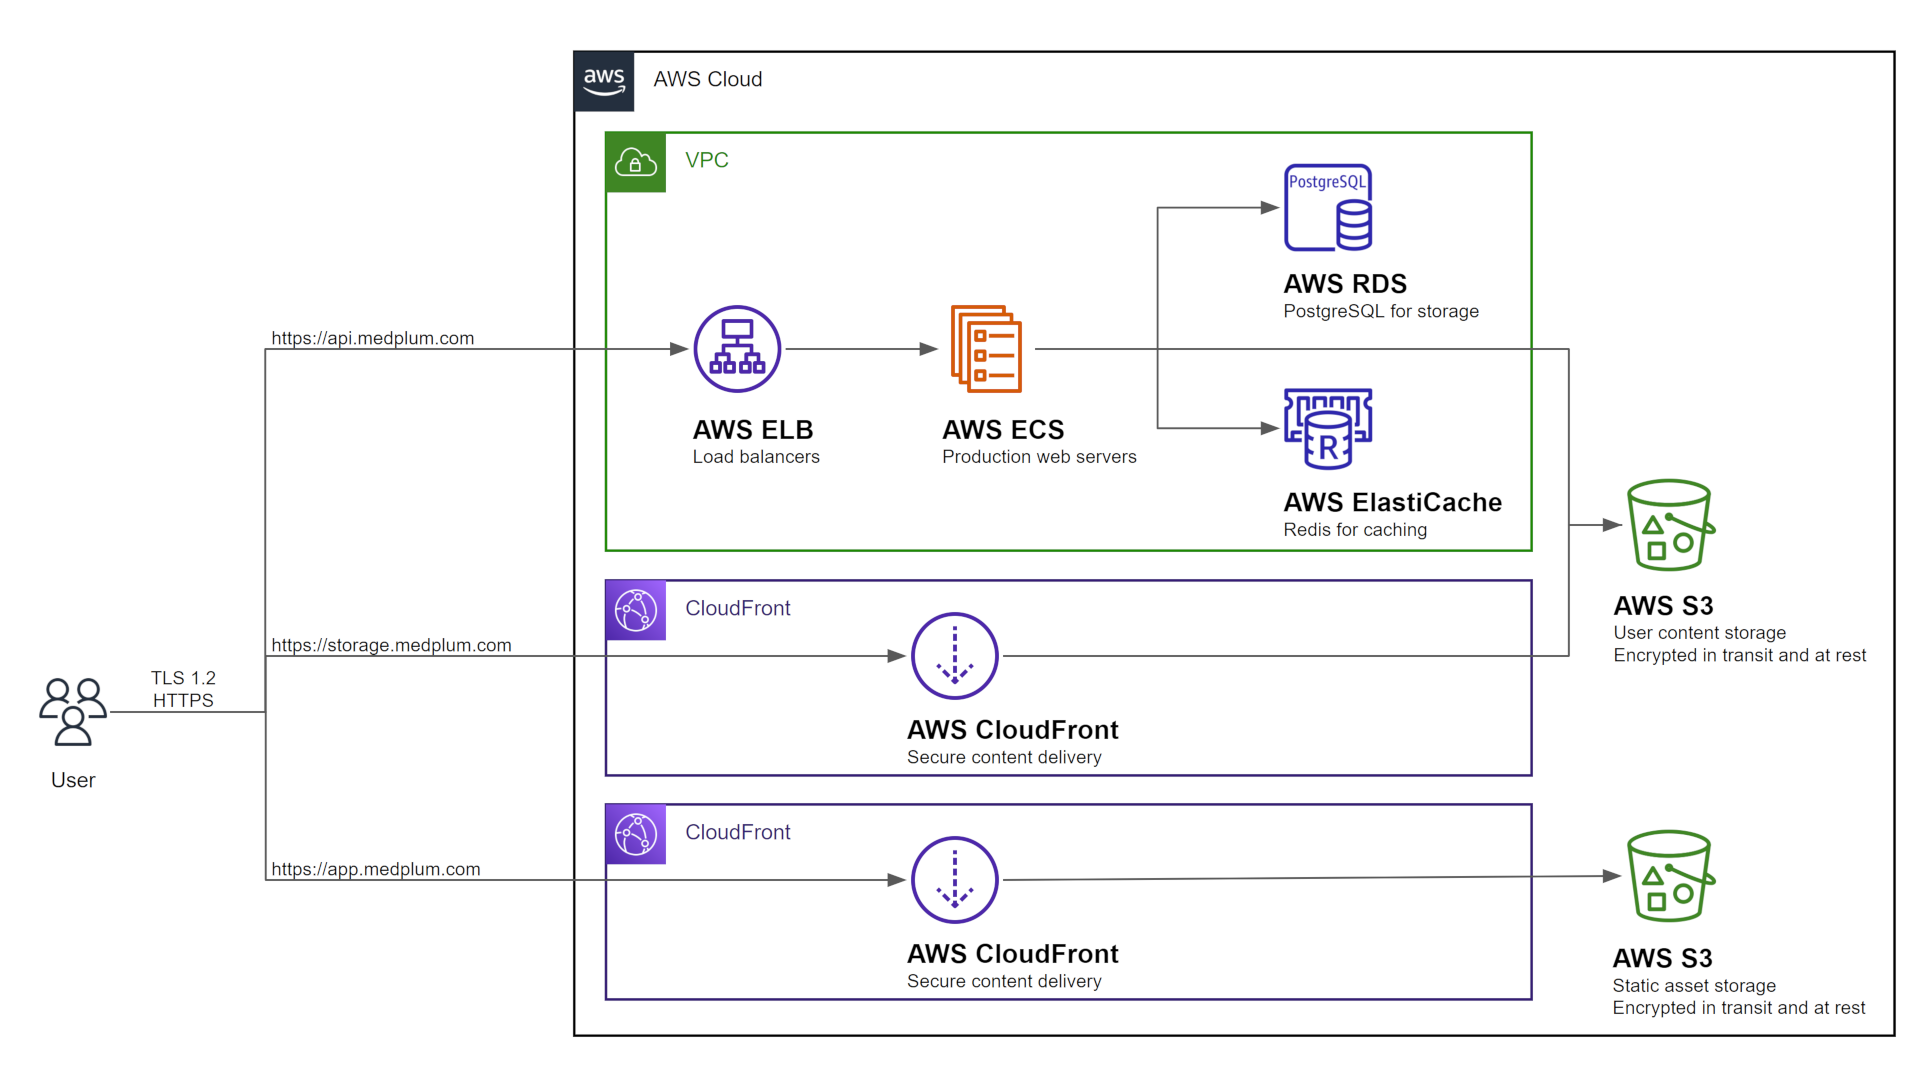
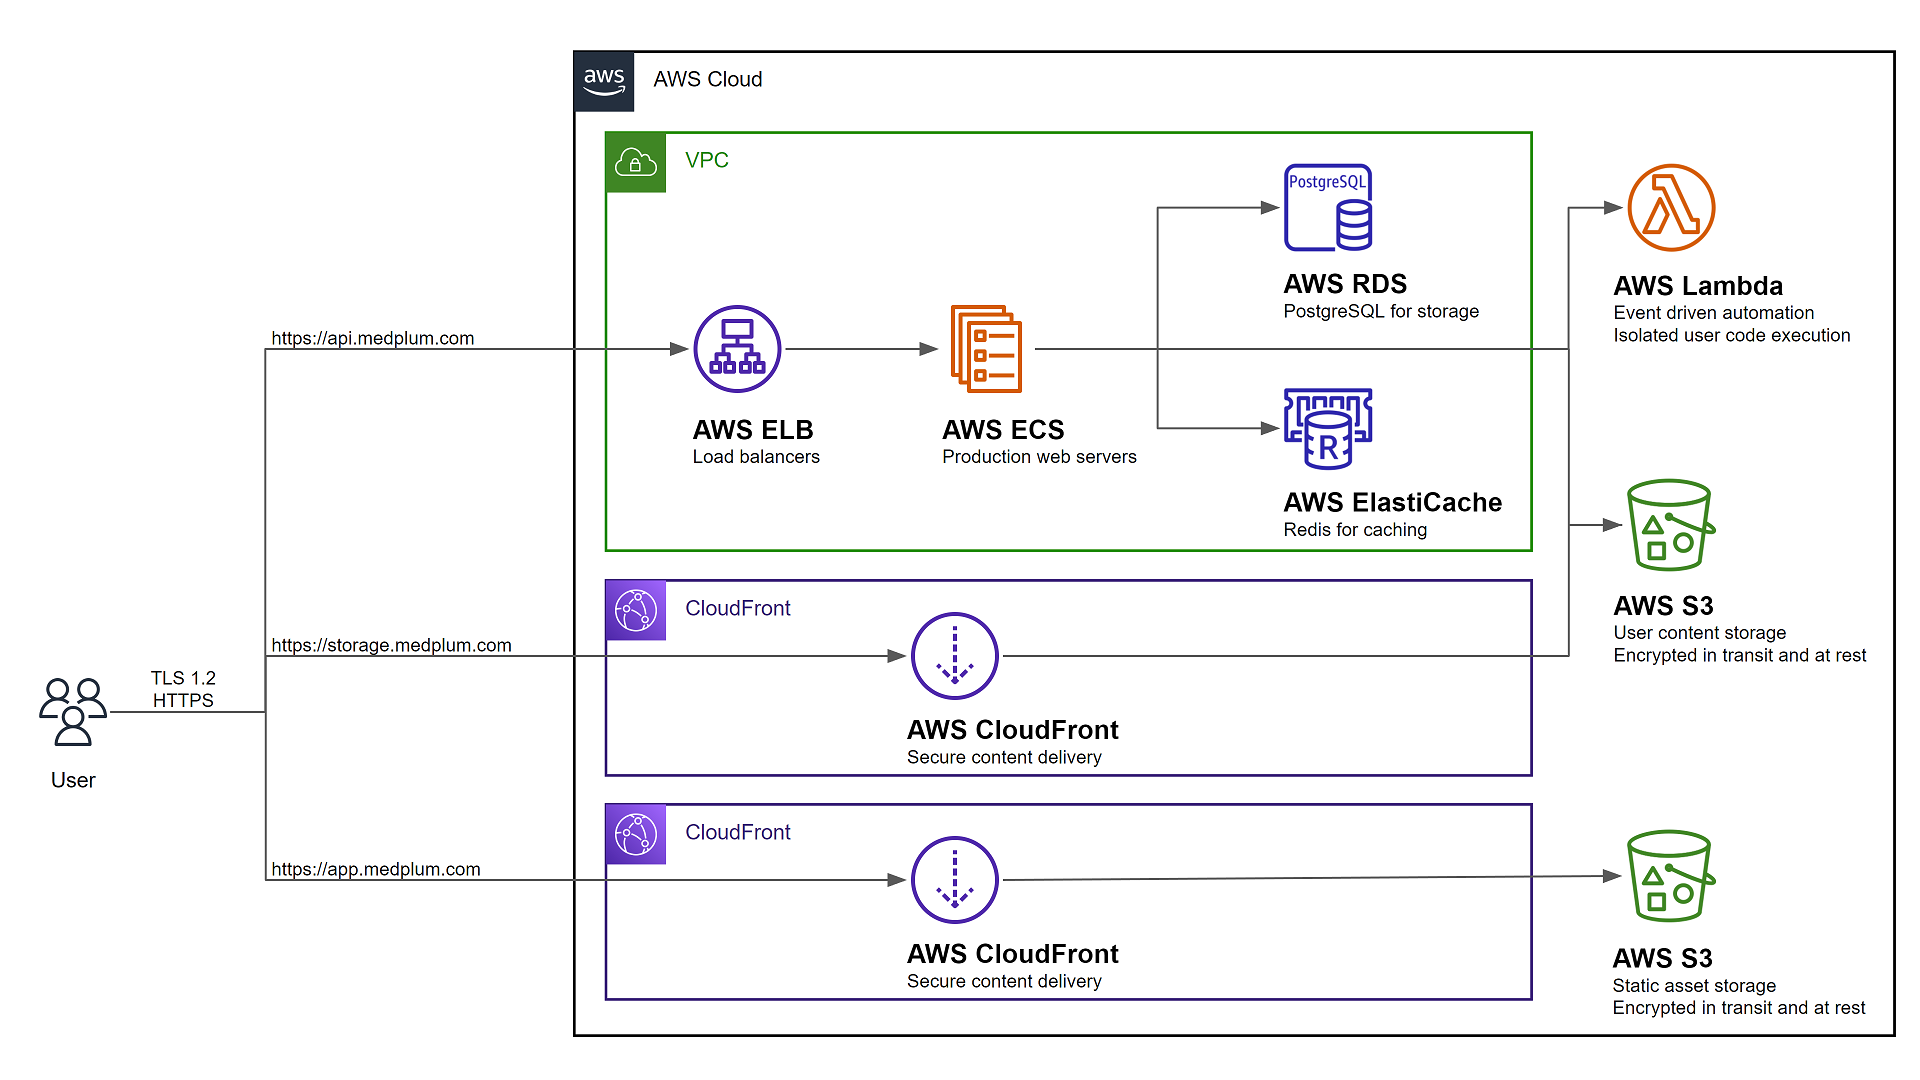
Doc for AWS Advantages (#1149)

diff --git a/packages/docs/docs/tutorials/self-hosting/aws-advantages.md b/packages/docs/docs/tutorials/self-hosting/aws-advantages.md
@@ -1,0 +1,46 @@
+---
+sidebar_position: 4
+---
+
+# AWS Advantages
+
+Medplum provides a suite of digital healthcare services such as authentication, access controls, user management, FHIR server, automation, and more.
+
+Medplum's hosted offering runs on AWS, so naturally the AWS configuration is most full-featured and most battle-tested. This document describes which features are only available on AWS, and possible alternatives.
+
+:::info
+
+Are you interested in a non-AWS environment? Please [contact us](mailto:hello@medplum.com) to learn about partnership or sponsorship opportunities. As the Medplum project grows, we intend to target as many hosting options as possible.
+
+:::
+
+For more details on self hosting on AWS, see [Install on AWS](./install-on-aws).
+
+The following diagram roughly represents the AWS architecture:
+
+![Medplum AWS Architecture](./medplum-aws-architecture.png)
+
+- **[AWS CDK](https://aws.amazon.com/cdk/)** - Infrastructure as code (IaC). Medplum provides CDK code that can create the entire AWS environment from scratch.
+  - Alternatives: [Terraform](https://www.terraform.io/), [Microsoft Resource Manager](https://learn.microsoft.com/en-us/azure/azure-resource-manager/)
+- **[AWS VPC](https://aws.amazon.com/vpc/)** - Private cloud and network firewall.
+  - Alternatives: [Azure Virtual Network](https://learn.microsoft.com/en-us/azure/virtual-network/), [Google Cloud VPC](https://cloud.google.com/vpc)
+- **[AWS Fargate/ECS](https://aws.amazon.com/fargate/)** - Server orchestration for high availability and zero downtime deployments. Medplum deployment scripts use Fargate features to follow AWS best practices for smooth deployment.
+  - Alternatives: [Kubernetes](https://kubernetes.io/), [Azure Container Instances](https://azure.microsoft.com/en-us/products/container-instances/), [Google Cloud Run](https://cloud.google.com/run)
+- **[AWS Aurora](https://aws.amazon.com/rds/aurora/)** - Managed PostgreSQL database with monitoring, redundancy, patch maintenance, backups, and more.
+  - Alternatives: [Azure Cosmos DB](https://azure.microsoft.com/en-us/products/cosmos-db/), [Google Cloud SQL for PostgreSQL](https://cloud.google.com/sql/docs/postgres), self managed
+- **[AWS ElastiCache](https://aws.amazon.com/elasticache/)** - Managed Redis cache for resource caching and asynchronous job queues.
+  - Alternatives: [Azure Cache for Redis](https://learn.microsoft.com/en-us/azure/azure-cache-for-redis/cache-overview), [Google Cloud Memorystore](https://cloud.google.com/memorystore), self managed
+- **[AWS S3](https://aws.amazon.com/s3/)** - High availability, high durability blob storage.
+  - Alternatives: [Microsoft Azure Blob](https://azure.microsoft.com/en-us/products/storage/blobs/), [Google Cloud Storage](https://cloud.google.com/storage)
+- **[AWS SES](https://aws.amazon.com/ses/)** - Reliable and scalable email automation.
+  - Alternatives: [Twilio SendGrid](#), [Azure Communication Services](https://azure.microsoft.com/en-us/products/communication-services/)
+- **[AWS CloudFront](https://aws.amazon.com/cloudfront/)** - High availability Content Delivery Network (CDN) used for static asset hosting and user content via "Pre Signed URLs".
+  - Alternatives: [Cloudflare CDN](https://www.cloudflare.com/cdn/), [Azure CDN](https://azure.microsoft.com/en-us/products/cdn/), [Google Cloud CDN](https://cloud.google.com/cdn)
+- **[AWS Lambda](https://aws.amazon.com/lambda/)** - Serverless short lived code execution, used for background jobs and Medplum Bots.
+  - Alternatives: [Azure Automation](https://learn.microsoft.com/en-us/azure/automation/), [Google Cloud Functions](https://cloud.google.com/functions)
+- **[AWS Secrets Manager](https://aws.amazon.com/secrets-manager/)** - Manage and rotate service secrets such as database credentials.
+  - Alternatives: [HashiCorp Vault](https://www.vaultproject.io/), [Azure Key Vault](https://azure.microsoft.com/en-us/products/key-vault/), [Google Secrets Manager](https://cloud.google.com/secret-manager)
+- **[AWS Web Application Firewall (WAF)](https://aws.amazon.com/waf/)** - Protect against common web exploits and bots.
+  - Alternatives: [Cloudflare WAF](https://www.cloudflare.com/waf/), [Azure WAF](https://azure.microsoft.com/en-us/products/web-application-firewall/), [Google Cloud Armor](https://cloud.google.com/armor)
+- **[AWS CloudWatch Logs](https://aws.amazon.com/cloudwatch/)** - Centralized logs from all services.
+  - Alternatives: [Azure Monitor Logs](https://learn.microsoft.com/en-us/azure/azure-monitor/logs/data-platform-logs), [Google Cloud Logging](https://cloud.google.com/logging), [Splunk](https://www.splunk.com/), [Sumo Logic](https://www.sumologic.com/)
